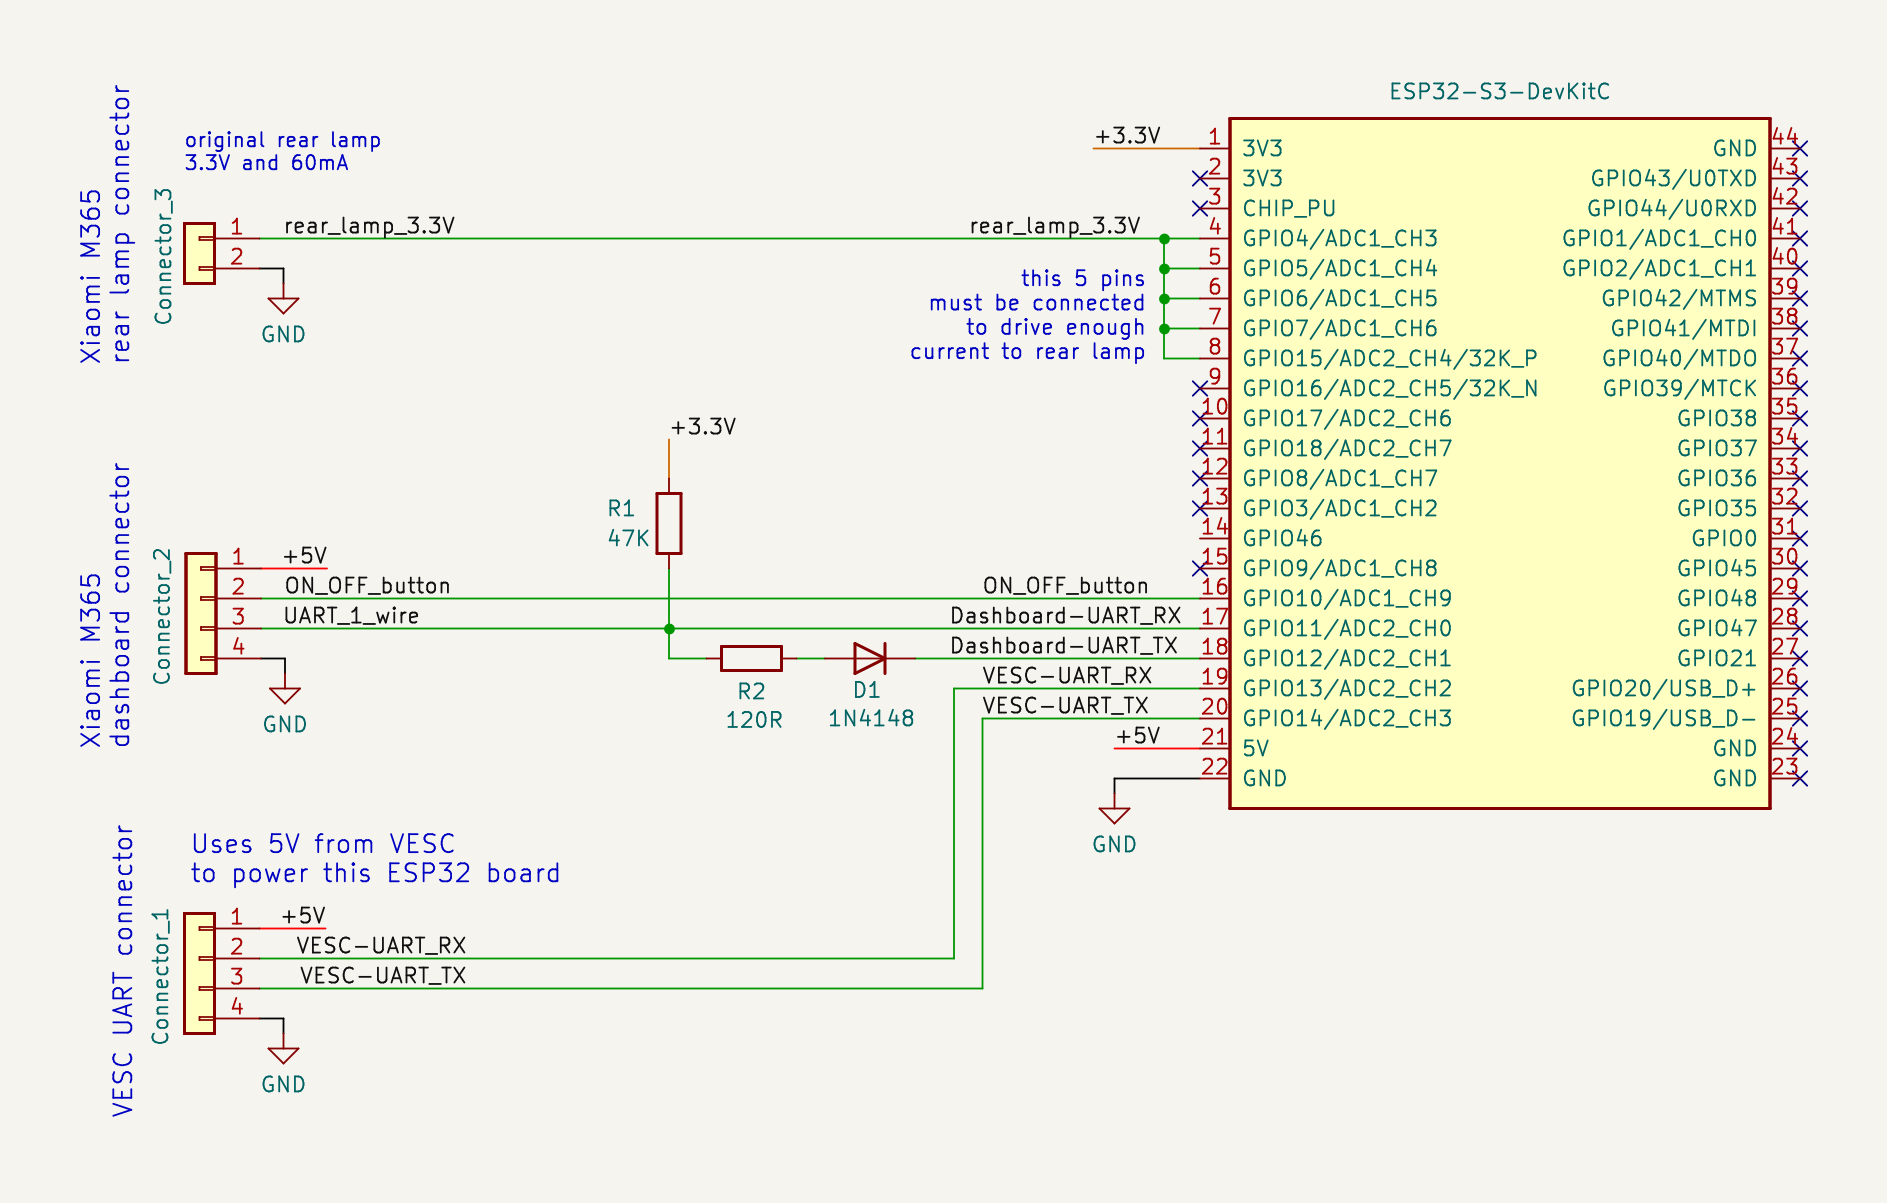
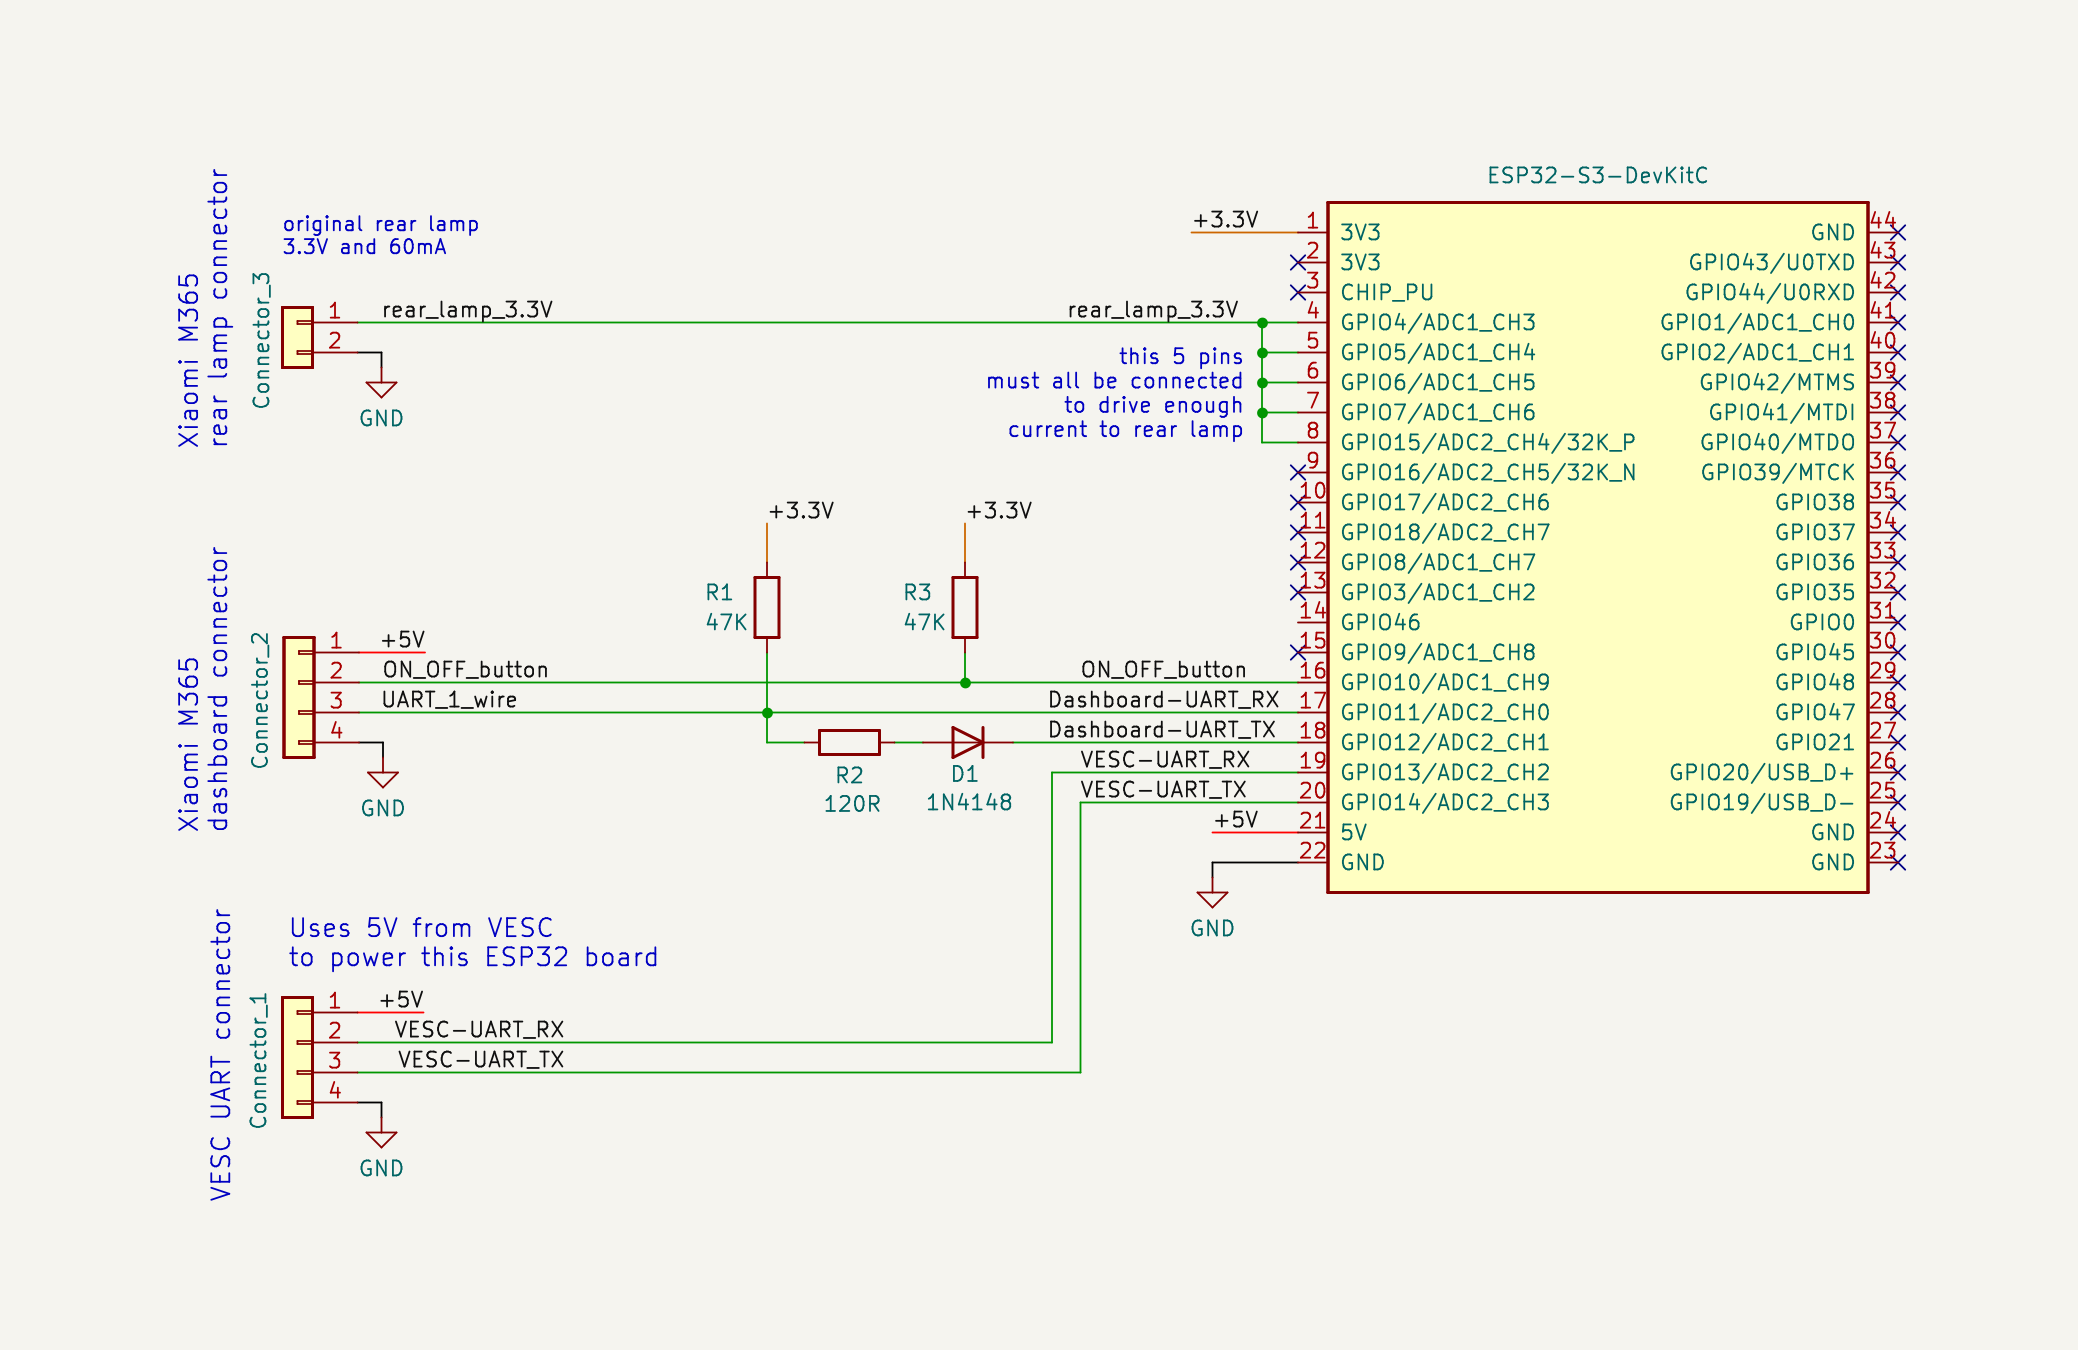
Updated schematic for Xiaomi M365 -- added pull up to the Dashboard on/off button signal.

diff --git a/index.md b/index.md
@@ -1,6 +1,10 @@
 # EBike / EScooter modular DIY OpenSource electronics and software
 
-[<img src="build_EBike_Bafang_M500/ebike-1.jpg" width="310"/>](build_EBike_Bafang_M500/build_EBike_Bafang_M500.md) [<img src="build_EScooter_Xiaomi_M365/build_EScooter_board/xiaomi_m365_pro_2-2023.04.23-04.jpg" width="310"/>](build_EScooter_Xiaomi_M365/build_EScooter_Xiaomi_M365.md)
+ 
+| EBike with Bafang M500<br>mid drive motor | EScooter Xiaomi M365
+|----------|:-------------:|
+| [<img src="build_EBike_Bafang_M500/ebike-1.jpg" width="310"/>](build_EBike_Bafang_M500/build_EBike_Bafang_M500.md) | [<img src="build_EScooter_Xiaomi_M365/build_EScooter_board/xiaomi_m365_pro_2-2023.04.23-04.jpg" width="310"/>](build_EScooter_Xiaomi_M365/build_EScooter_Xiaomi_M365.md)
+ |
 
 Over the years I did own a few different EBikes / EScooters from different brands, and I always found limitations on all of them, mainly on the software. Knowing that in general, all EBikes and EScooters are equal, I decided to replace the original motor controller electronics and display of all my EBikes/EScooters, with my own modular DIY version and running my software.
 
